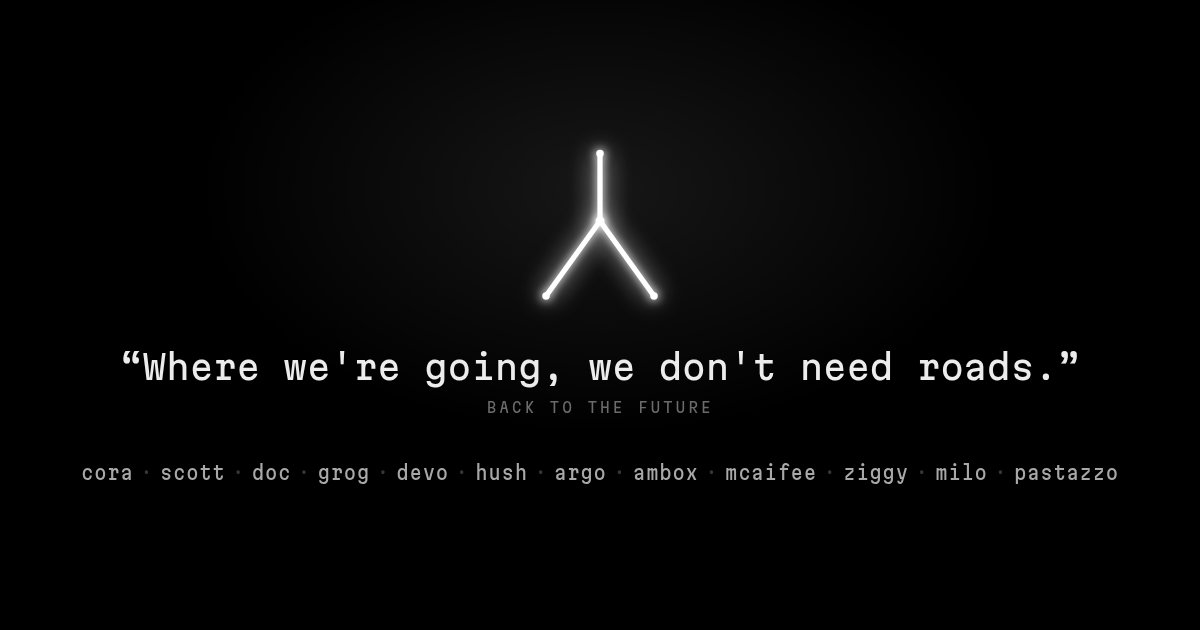
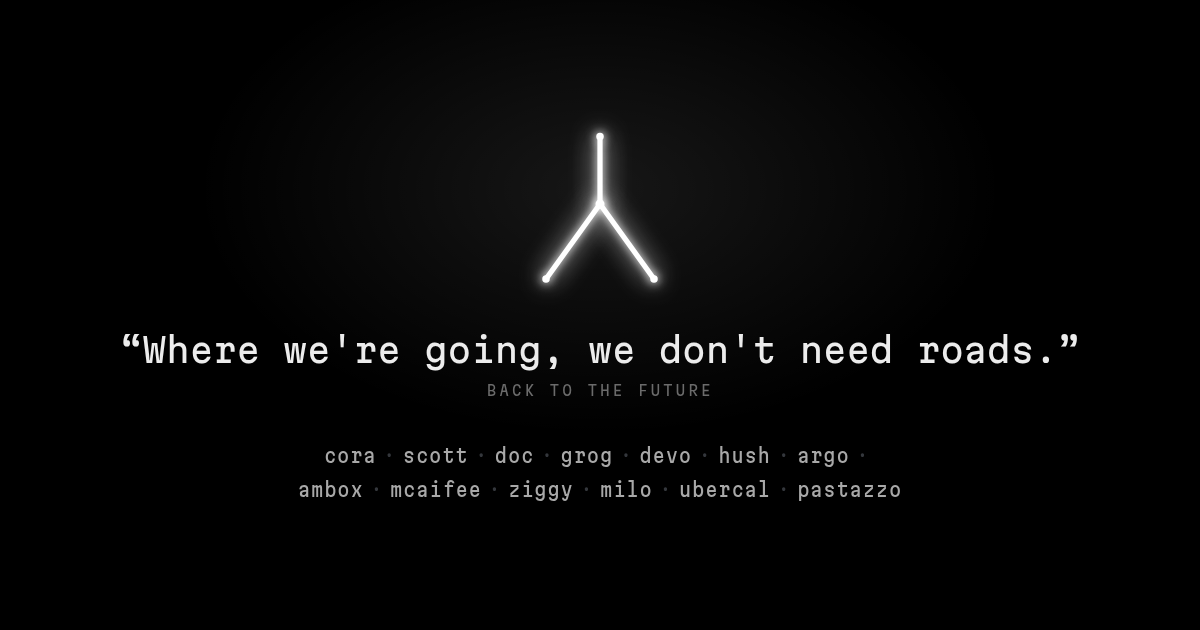
Add ubercal to the kit (#8)
ubercal (12) joins the companions: Google calendars and .ics links merged
into share links, hosted at ubercal.fluxkit.dev. Pastazzo becomes 13,
TOOLS reads 13, the OG card lists it and its tool line may wrap.

diff --git a/index.html b/index.html
@@ -18,20 +18,20 @@
   <link rel="preload" href="fonts/martian-mono.woff2" as="font" type="font/woff2" crossorigin>
   <link rel="preload" href="fonts/dseg7-classic-bold.woff2" as="font" type="font/woff2" crossorigin>
   <meta name="theme-color" content="#000000">
-  <meta name="description" content="Fluxkit is a toolkit for developers: cora, scott, doc, grog, devo, hush, argo, ambox, mcaifee, ziggy, milo, and pastazzo.">
+  <meta name="description" content="Fluxkit is a toolkit for developers: cora, scott, doc, grog, devo, hush, argo, ambox, mcaifee, ziggy, milo, ubercal, and pastazzo.">
   <meta property="og:title" content="Fluxkit">
-  <meta property="og:description" content="Fluxkit is a toolkit for developers: cora, scott, doc, grog, devo, hush, argo, ambox, mcaifee, ziggy, milo, and pastazzo.">
+  <meta property="og:description" content="Fluxkit is a toolkit for developers: cora, scott, doc, grog, devo, hush, argo, ambox, mcaifee, ziggy, milo, ubercal, and pastazzo.">
   <meta property="og:type" content="website">
   <meta property="og:url" content="https://fluxkit.dev/">
-  <meta property="og:image" content="https://fluxkit.dev/og.png?v=13">
+  <meta property="og:image" content="https://fluxkit.dev/og.png?v=14">
   <meta property="og:image:width" content="1200">
   <meta property="og:image:height" content="630">
-  <meta property="og:image:alt" content="White flux mark on black, the line Where we're going, we don't need roads, and cora, scott, doc, grog, devo, hush, argo, ambox, mcaifee, ziggy, milo, pastazzo.">
+  <meta property="og:image:alt" content="White flux mark on black, the line Where we're going, we don't need roads, and cora, scott, doc, grog, devo, hush, argo, ambox, mcaifee, ziggy, milo, ubercal, pastazzo.">
   <meta name="twitter:card" content="summary_large_image">
   <meta name="twitter:title" content="Fluxkit">
-  <meta name="twitter:description" content="Fluxkit is a toolkit for developers: cora, scott, doc, grog, devo, hush, argo, ambox, mcaifee, ziggy, milo, and pastazzo.">
-  <meta name="twitter:image" content="https://fluxkit.dev/og.png?v=13">
-  <meta name="twitter:image:alt" content="White flux mark on black, the line Where we're going, we don't need roads, and cora, scott, doc, grog, devo, hush, argo, ambox, mcaifee, ziggy, milo, pastazzo.">
+  <meta name="twitter:description" content="Fluxkit is a toolkit for developers: cora, scott, doc, grog, devo, hush, argo, ambox, mcaifee, ziggy, milo, ubercal, and pastazzo.">
+  <meta name="twitter:image" content="https://fluxkit.dev/og.png?v=14">
+  <meta name="twitter:image:alt" content="White flux mark on black, the line Where we're going, we don't need roads, and cora, scott, doc, grog, devo, hush, argo, ambox, mcaifee, ziggy, milo, ubercal, pastazzo.">
   <style>
     @font-face {
       font-family: "Martian Mono";
@@ -455,6 +455,7 @@
 
     .grid.four { grid-template-columns: repeat(4, minmax(0, 1fr)); }
     .grid.two { grid-template-columns: repeat(2, minmax(0, 1fr)); }
+    .grid.three { grid-template-columns: repeat(3, minmax(0, 1fr)); }
 
     /* cora */
     .cora-cell {
@@ -719,6 +720,7 @@
 
     @media (max-width: 1023px) {
       .grid, .grid.four { grid-template-columns: repeat(2, minmax(0, 1fr)); }
+      .grid.three { grid-template-columns: minmax(0, 1fr); }
       .grid .cell:last-child:nth-child(odd) { grid-column: span 2; }
       .shelf-cell, .cora-cell { grid-template-columns: minmax(0, 1fr); }
       .ask-grid { grid-template-columns: minmax(0, 1fr); }
@@ -730,7 +732,7 @@
       .section-head > p { justify-self: start; }
     }
     @media (max-width: 640px) {
-      .grid, .grid.four, .grid.two { grid-template-columns: minmax(0, 1fr); }
+      .grid, .grid.four, .grid.two, .grid.three { grid-template-columns: minmax(0, 1fr); }
       .grid .cell:last-child:nth-child(odd) { grid-column: auto; }
       .facts div { grid-template-columns: minmax(0, 1fr); }
       .desk figcaption { flex-wrap: wrap; row-gap: .1rem; }
@@ -833,7 +835,7 @@
       <div class="circuits rise" style="--d:5" aria-label="Time circuits">
         <div class="readout red">
           <span class="name">Tools in the kit</span>
-          <span class="digits" role="img" aria-label="12 tools"><span class="ghost" aria-hidden="true">88</span><span class="lit" aria-hidden="true" data-count="12">12</span></span>
+          <span class="digits" role="img" aria-label="13 tools"><span class="ghost" aria-hidden="true">88</span><span class="lit" aria-hidden="true" data-count="13">13</span></span>
         </div>
         <div class="readout green">
           <span class="name">Secrets printed</span>
@@ -851,7 +853,7 @@
             <p class="label"><b>01</b> the kit</p>
             <h2 id="kit-title">Agents of your own. Tools for the one in your terminal.</h2>
           </div>
-          <p>Cora runs agents that live with your team, each on its own computer. Seven agent tools ride inside scott. Ziggy takes your social channels, Milo your email, and Pastazzo keeps your clipboard close. Every repository is public.</p>
+          <p>Cora runs agents that live with your team, each on its own computer. Seven agent tools ride inside scott. Ziggy takes your social channels, Milo your email, ubercal your calendars, and Pastazzo keeps your clipboard close. Every repository is public.</p>
         </div>
 
         <p class="group">agents of your own</p>
@@ -943,7 +945,7 @@
         </div>
 
         <p class="group">companions</p>
-        <div class="grid two">
+        <div class="grid three">
           <a class="cell" href="https://github.com/turinglabsorg/ziggy">
             <div class="cell-top"><span class="num">10</span><span class="tag">social agent</span></div>
             <h3>ziggy</h3>
@@ -956,12 +958,18 @@
             <p class="what">Your inbox, with room to think. An email client for Gmail and IMAP/SMTP, with Ollama for summaries and proposed replies. Your archive follows you across devices.</p>
             <span class="repo">turinglabsorg/milo <svg aria-hidden="true"><use href="#i-arrow"/></svg></span>
           </a>
+          <a class="cell" href="https://github.com/turinglabsorg/ubercal">
+            <div class="cell-top"><span class="num">12</span><span class="tag">calendars</span></div>
+            <h3>ubercal</h3>
+            <p class="what">Every calendar, one link. Merge Google calendars and .ics links into share links that show each calendar in full, as busy time, or not at all, from the dates you choose. Hosted at ubercal.fluxkit.dev.</p>
+            <span class="repo">turinglabsorg/ubercal <svg aria-hidden="true"><use href="#i-arrow"/></svg></span>
+          </a>
         </div>
 
         <p class="group">next to you</p>
         <a class="cell shelf-cell" href="https://github.com/turinglabsorg/pastazzo">
           <div class="copy">
-            <div class="cell-top"><span class="num">12</span><span class="tag">clipboard</span></div>
+            <div class="cell-top"><span class="num">13</span><span class="tag">clipboard</span></div>
             <h3>pastazzo</h3>
             <p class="what">Clipboard history for GNOME and macOS. Everything you copy lands on a shelf, synced across your devices end to end. Not an agent tool: the one you reach for while the agent works.</p>
             <div class="keys" aria-label="Shortcut Shift Alt V"><kbd>Shift</kbd><kbd>Alt</kbd><kbd>V</kbd><span>opens the shelf</span></div>
@@ -988,7 +996,7 @@
             <p class="label"><b>02</b> ask your agent</p>
             <h2 id="install-title">One file. The agent does the rest, and tells you what it checked.</h2>
           </div>
-          <p>The core installer puts in what needs no secret, then checks file modes, the gcloud guard, and argo. Tokens, models, and addresses wait for your yes. Cora, Ziggy, and Milo have their own setup in their repositories.</p>
+          <p>The core installer puts in what needs no secret, then checks file modes, the gcloud guard, and argo. Tokens, models, and addresses wait for your yes. Cora, Ziggy, and Milo have their own setup in their repositories; ubercal needs none, it runs at ubercal.fluxkit.dev.</p>
         </div>
 
         <div class="ask-grid">

diff --git a/og.html b/og.html
@@ -48,7 +48,7 @@
     </svg>
     <p class="quote">“Where we're going, we don't need roads.”</p>
     <p class="cite">Back to the Future</p>
-    <p class="tools">cora<span>·</span>scott<span>·</span>doc<span>·</span>grog<span>·</span>devo<span>·</span>hush<span>·</span>argo<span>·</span>ambox<span>·</span>mcaifee<span>·</span>ziggy<span>·</span>milo<span>·</span>pastazzo</p>
+    <p class="tools">cora<span>·</span><wbr>scott<span>·</span><wbr>doc<span>·</span><wbr>grog<span>·</span><wbr>devo<span>·</span><wbr>hush<span>·</span><wbr>argo<span>·</span><wbr>ambox<span>·</span><wbr>mcaifee<span>·</span><wbr>ziggy<span>·</span><wbr>milo<span>·</span><wbr>ubercal<span>·</span><wbr>pastazzo</p>
   </div>
 </body>
 </html>

diff --git a/DESIGN.md b/DESIGN.md
@@ -47,11 +47,11 @@ The page measure is `min(72rem, 100% - 2rem)`. Nothing scrolls sideways at 1440,
 
 1. **Bar.** `meaningtech / fluxkit` on the left, `AGENTS.md` and `source` on the right. The row wraps when the links cannot fit, including at 320px.
 2. **Hero.** Two columns above 860px, stacked below. Left: the prompt line `$ fluxkit`, the wordmark, the line “Where we're going, we don't need roads.”, one sentence on what the kit is (agents of your own first, then the toolkit for the coding agent, then the clipboard), and two actions: copy the agent prompt, open `AGENTS.md`. Right: the flux capacitor housing (corner screws, a small `FLUX CAPACITOR` plate, the mark with light running down the conduits).
-3. **Time circuits.** Three readouts in a row, each a label plate and digits: `TOOLS 12` red, `SECRETS PRINTED 00` green, `MPH 88` amber. The first two are facts; the third is the joke. Update `TOOLS` when the kit changes.
-4. **The kit.** Section label `01 the kit`, the heading “Agents of your own. Tools for the one in your terminal.”, and a short note on the right. Then four groups, each under a `//` label. Tools are numbered 01 to 12 in the order of the table below. Each ordinary cell: the number, a short tag, the name, one sentence, and `turinglabsorg/<repo>` with an arrow. The whole cell is the link.
+3. **Time circuits.** Three readouts in a row, each a label plate and digits: `TOOLS 13` red, `SECRETS PRINTED 00` green, `MPH 88` amber. The first two are facts; the third is the joke. Update `TOOLS` when the kit changes.
+4. **The kit.** Section label `01 the kit`, the heading “Agents of your own. Tools for the one in your terminal.”, and a short note on the right. Then four groups, each under a `//` label. Tools are numbered 01 to 13 in the order of the table below. Each ordinary cell: the number, a short tag, the name, one sentence, and `turinglabsorg/<repo>` with an arrow. The whole cell is the link.
    - `// agents of your own`: Cora, the flagship, top left and full width. Its cell carries the Cora amber on its number, its tag, its top border and a soft glow above it. Left: the name at the largest size on the page after the wordmark, one sentence, and two rows of chips, `lives on` (Discord, Slack, Telegram) and `thinks with` (Claude Code, Codex, Grok Build, Muse Code, Ollama). Right: a dark mock of a channel, `# launch` with an `on air` lamp, three lines where the human names an agent (`@Ada`, an amber mention) and it answers, and under them the three agents' desktops: Ada working (a browser, an amber outline, a pointer that moves), Brio on a routine (a chart), Lux asleep (a dark screen). One column below 1024px. Cora has separate setup and is not installed by the core installer.
    - `// for your coding agent`: one grid of eight ordinary cells: scott, then doc, grog, devo, hush, argo, ambox, mcaifee. scott is a cell like the others; its sentence says the next seven ride inside it. Four columns above 1024px, two above 640px, one below.
-   - `// companions`: Ziggy (10) and Milo (11), two columns above 640px, one below. Ziggy is the social media agent; Milo is the human's email client with an Ollama assistant. They have separate setup and are not bundled inside scott or installed by the core installer. The installation section states this explicitly, for Cora too.
+   - `// companions`: Ziggy (10), Milo (11) and ubercal (12), three columns above 1024px, one below. Ziggy is the social media agent; Milo is the human's email client with an Ollama assistant; ubercal merges the human's calendars into share links and is the one hosted tool (ubercal.fluxkit.dev, whose sign-in and legal pages belong to fluxkit.dev). Ziggy and Milo have separate setup and are not bundled inside scott or installed by the core installer; ubercal needs no setup. The installation section states this explicitly, for Cora too.
    - `// next to you`: pastazzo. It is not an agent tool: it is for the human working next to the agent. Its cell is full width, with the pastazzo orange on its number, its tag, its top border and a soft glow above it, a keycap row `Shift Alt V`, and on the right a dark mock of the shelf: search field, a transfer pill, four items with age and device, the first one selected. The row of items is clipped with a fade; it never widens the page.
 5. **Ask your agent.** Section label `02 ask your agent`. A terminal window: the human's message (the exact prompt below), the agent's first line (the security sentence), then installer lines with `ok` in green. Lines appear one after the other on load. Under it, copy and open, and the `curl` line for people who install it themselves, with its own copy.
 6. **Footer.** The quote and its attribution, `meaningtech`, `source`, `AGENTS.md`, `privacy`, `terms`.
@@ -77,6 +77,7 @@ Cells are square, 1px `--rule` border, `--panel` fill. On hover a cell's border 
 | mcaifee | Antivirus for agents. A package is checked before it runs. | packages | github.com/turinglabsorg/mcaifee |
 | ziggy | Your agent's social media manager. Brand assets, short videos, publishing, and replies, with a separate playbook for each brand. | social agent | github.com/turinglabsorg/ziggy |
 | milo | Your inbox, with room to think. An email client for Gmail and IMAP/SMTP, with Ollama for summaries and proposed replies. Your archive follows you across devices. | email client | github.com/turinglabsorg/milo |
+| ubercal | Every calendar, one link. Merge Google calendars and .ics links into share links that show each calendar in full, as busy time, or not at all, from the dates you choose. Hosted at ubercal.fluxkit.dev. | calendars | github.com/turinglabsorg/ubercal |
 | pastazzo | Clipboard history for GNOME and macOS. Everything you copy lands on a shelf, synced across your devices end to end. | clipboard | github.com/turinglabsorg/pastazzo |
 
 Devo is a public repository. The page does not call it private. Pastazzo is not inside scott: it needs a desktop.
@@ -103,6 +104,6 @@ Open is a link to `AGENTS.md` with `target="_blank"` and `rel="noopener noreferr
 
 ## Open Graph
 
-`og.png` is 1200×630, black, drawn from `og.html` with a headless browser. The same mark, stem up, in white. Under it, the line “Where we're going, we don't need roads.”, the attribution Back to the Future, and the current tool names in order: cora, scott, doc, grog, devo, hush, argo, ambox, mcaifee, ziggy, milo, pastazzo. The tool line is centered, balanced, and capped at 1080px so names can wrap within the card. When the kit changes, update `og.html`, redraw the card, and bump the `?v=` on `og:image` and `twitter:image` (both on https://fluxkit.dev). The description on those tags is the same sentence as `meta name="description"`.
+`og.png` is 1200×630, black, drawn from `og.html` with a headless browser. The same mark, stem up, in white. Under it, the line “Where we're going, we don't need roads.”, the attribution Back to the Future, and the current tool names in order: cora, scott, doc, grog, devo, hush, argo, ambox, mcaifee, ziggy, milo, ubercal, pastazzo. The tool line is centered, balanced, and capped at 1080px so names can wrap within the card. When the kit changes, update `og.html`, redraw the card, and bump the `?v=` on `og:image` and `twitter:image` (both on https://fluxkit.dev). The description on those tags is the same sentence as `meta name="description"`.
 
 The favicon is the same mark on black: `favicon.svg` for current browsers, `favicon.ico` at 16, 32, and 48, and `apple-touch-icon.png` at 180.

diff --git a/AGENTS.md b/AGENTS.md
@@ -1,6 +1,6 @@
 # Fluxkit
 
-You are installing Fluxkit for the human. Fluxkit is a local toolkit. It is not a hosted product. The tools run on this machine. Cora runs the human's own always-on agents, each on its own computer; it has a separate setup. scott is the portable Claude Code that already carries doc, grog, devo, hush, argo, ambox, and mcaifee. Ziggy and Milo are optional companions with separate setup too. Milo is the human's email client; pastazzo is their clipboard, on their desktop.
+You are installing Fluxkit for the human. Fluxkit is a local toolkit. It is not a hosted product. The tools run on this machine, except ubercal, which runs at https://ubercal.fluxkit.dev and needs nothing installed. Cora runs the human's own always-on agents, each on its own computer; it has a separate setup. scott is the portable Claude Code that already carries doc, grog, devo, hush, argo, ambox, and mcaifee. Ziggy and Milo are optional companions with separate setup too. Milo is the human's email client; pastazzo is their clipboard, on their desktop.
 
 ## Say this first
 
@@ -27,6 +27,7 @@ If the human writes Italian, the sentence is: "Sto installando Fluxkit e sto con
 | mcaifee | Antivirus for agents. npm, pnpm, Yarn, and Bun installs are checked before they run | https://github.com/turinglabsorg/mcaifee |
 | ziggy | Social media management: brand assets, short videos, publishing, and replies within a per-brand playbook | https://github.com/turinglabsorg/ziggy |
 | milo | The human's email client for Gmail and IMAP/SMTP, with an Ollama assistant and a shared archive across devices | https://github.com/turinglabsorg/milo |
+| ubercal | The human's calendars merged into share links (full, busy, or off per calendar, with dates). Hosted at https://ubercal.fluxkit.dev; nothing to install | https://github.com/turinglabsorg/ubercal |
 | pastazzo | The human's clipboard history on GNOME (Wayland) and macOS, with optional end-to-end encrypted sync between their devices. Not an agent tool, and not inside scott | https://github.com/turinglabsorg/pastazzo |
 
 Devo is public. Clone it with the others. Do not ask the human to paste a token into the chat.
@@ -38,6 +39,7 @@ The core installer does not install Cora, Ziggy, or Milo. Set them up only when 
 - Cora: follow its [run guide](https://github.com/turinglabsorg/cora#run). It needs Docker, a machine that stays on, and a Claude Code, Codex, Grok Build, or Muse Code subscription (or an Ollama Cloud key); its secrets stay in hush, and the human pastes bot tokens in its panel, never in the chat.
 - Ziggy: follow its [installation guide](https://github.com/turinglabsorg/ziggy#install). Publishing credentials stay in hush.
 - Milo: follow its [Linux setup guide](https://github.com/turinglabsorg/milo#run-on-linux). It needs PostgreSQL and mailbox authorization; do not access the human's mail without their request.
+- ubercal: nothing to install. It runs at https://ubercal.fluxkit.dev; the human signs in there with Google. Do not sign in for them.
 
 ## Install
 

diff --git a/README.md b/README.md
@@ -30,11 +30,12 @@ The same file is at <https://raw.githubusercontent.com/meaningtech/fluxkit/main/
 | mcaifee | Antivirus for agents. A package is checked before it runs | <https://github.com/turinglabsorg/mcaifee> |
 | ziggy | Social media manager for coding agents: brand assets, videos, publishing, and replies, with a playbook per brand | <https://github.com/turinglabsorg/ziggy> |
 | milo | Email client for Gmail and IMAP/SMTP, with an Ollama assistant for summaries and proposed replies, and a shared archive across devices | <https://github.com/turinglabsorg/milo> |
+| ubercal | Every calendar, one link: Google calendars and .ics links merged into share links that show each calendar in full, as busy time, or not at all. Hosted, nothing to install | <https://github.com/turinglabsorg/ubercal> (live at <https://ubercal.fluxkit.dev>) |
 | pastazzo | Clipboard history for GNOME and macOS, synced across your devices end to end. It is for you, not for the agent | <https://github.com/turinglabsorg/pastazzo> |
 
 All of them are public.
 
-Cora, Ziggy, and Milo are optional companions with their own setup; the core installer does not install them. Follow [Cora's run guide](https://github.com/turinglabsorg/cora#run), the [Ziggy installation guide](https://github.com/turinglabsorg/ziggy#install), or the [Milo setup guide](https://github.com/turinglabsorg/milo#run-on-linux). Cora needs Docker, a machine that stays on, and a Claude Code, Codex, Grok Build, or Muse Code subscription (or an Ollama Cloud key); Ziggy needs a publishing provider and hush-held keys; Milo needs PostgreSQL and mailbox authorization.
+Cora, Ziggy, and Milo are optional companions with their own setup; the core installer does not install them. ubercal is hosted: open <https://ubercal.fluxkit.dev> and sign in with Google. Follow [Cora's run guide](https://github.com/turinglabsorg/cora#run), the [Ziggy installation guide](https://github.com/turinglabsorg/ziggy#install), or the [Milo setup guide](https://github.com/turinglabsorg/milo#run-on-linux). Cora needs Docker, a machine that stays on, and a Claude Code, Codex, Grok Build, or Muse Code subscription (or an Ollama Cloud key); Ziggy needs a publishing provider and hush-held keys; Milo needs PostgreSQL and mailbox authorization.
 
 ## Install it yourself
 
